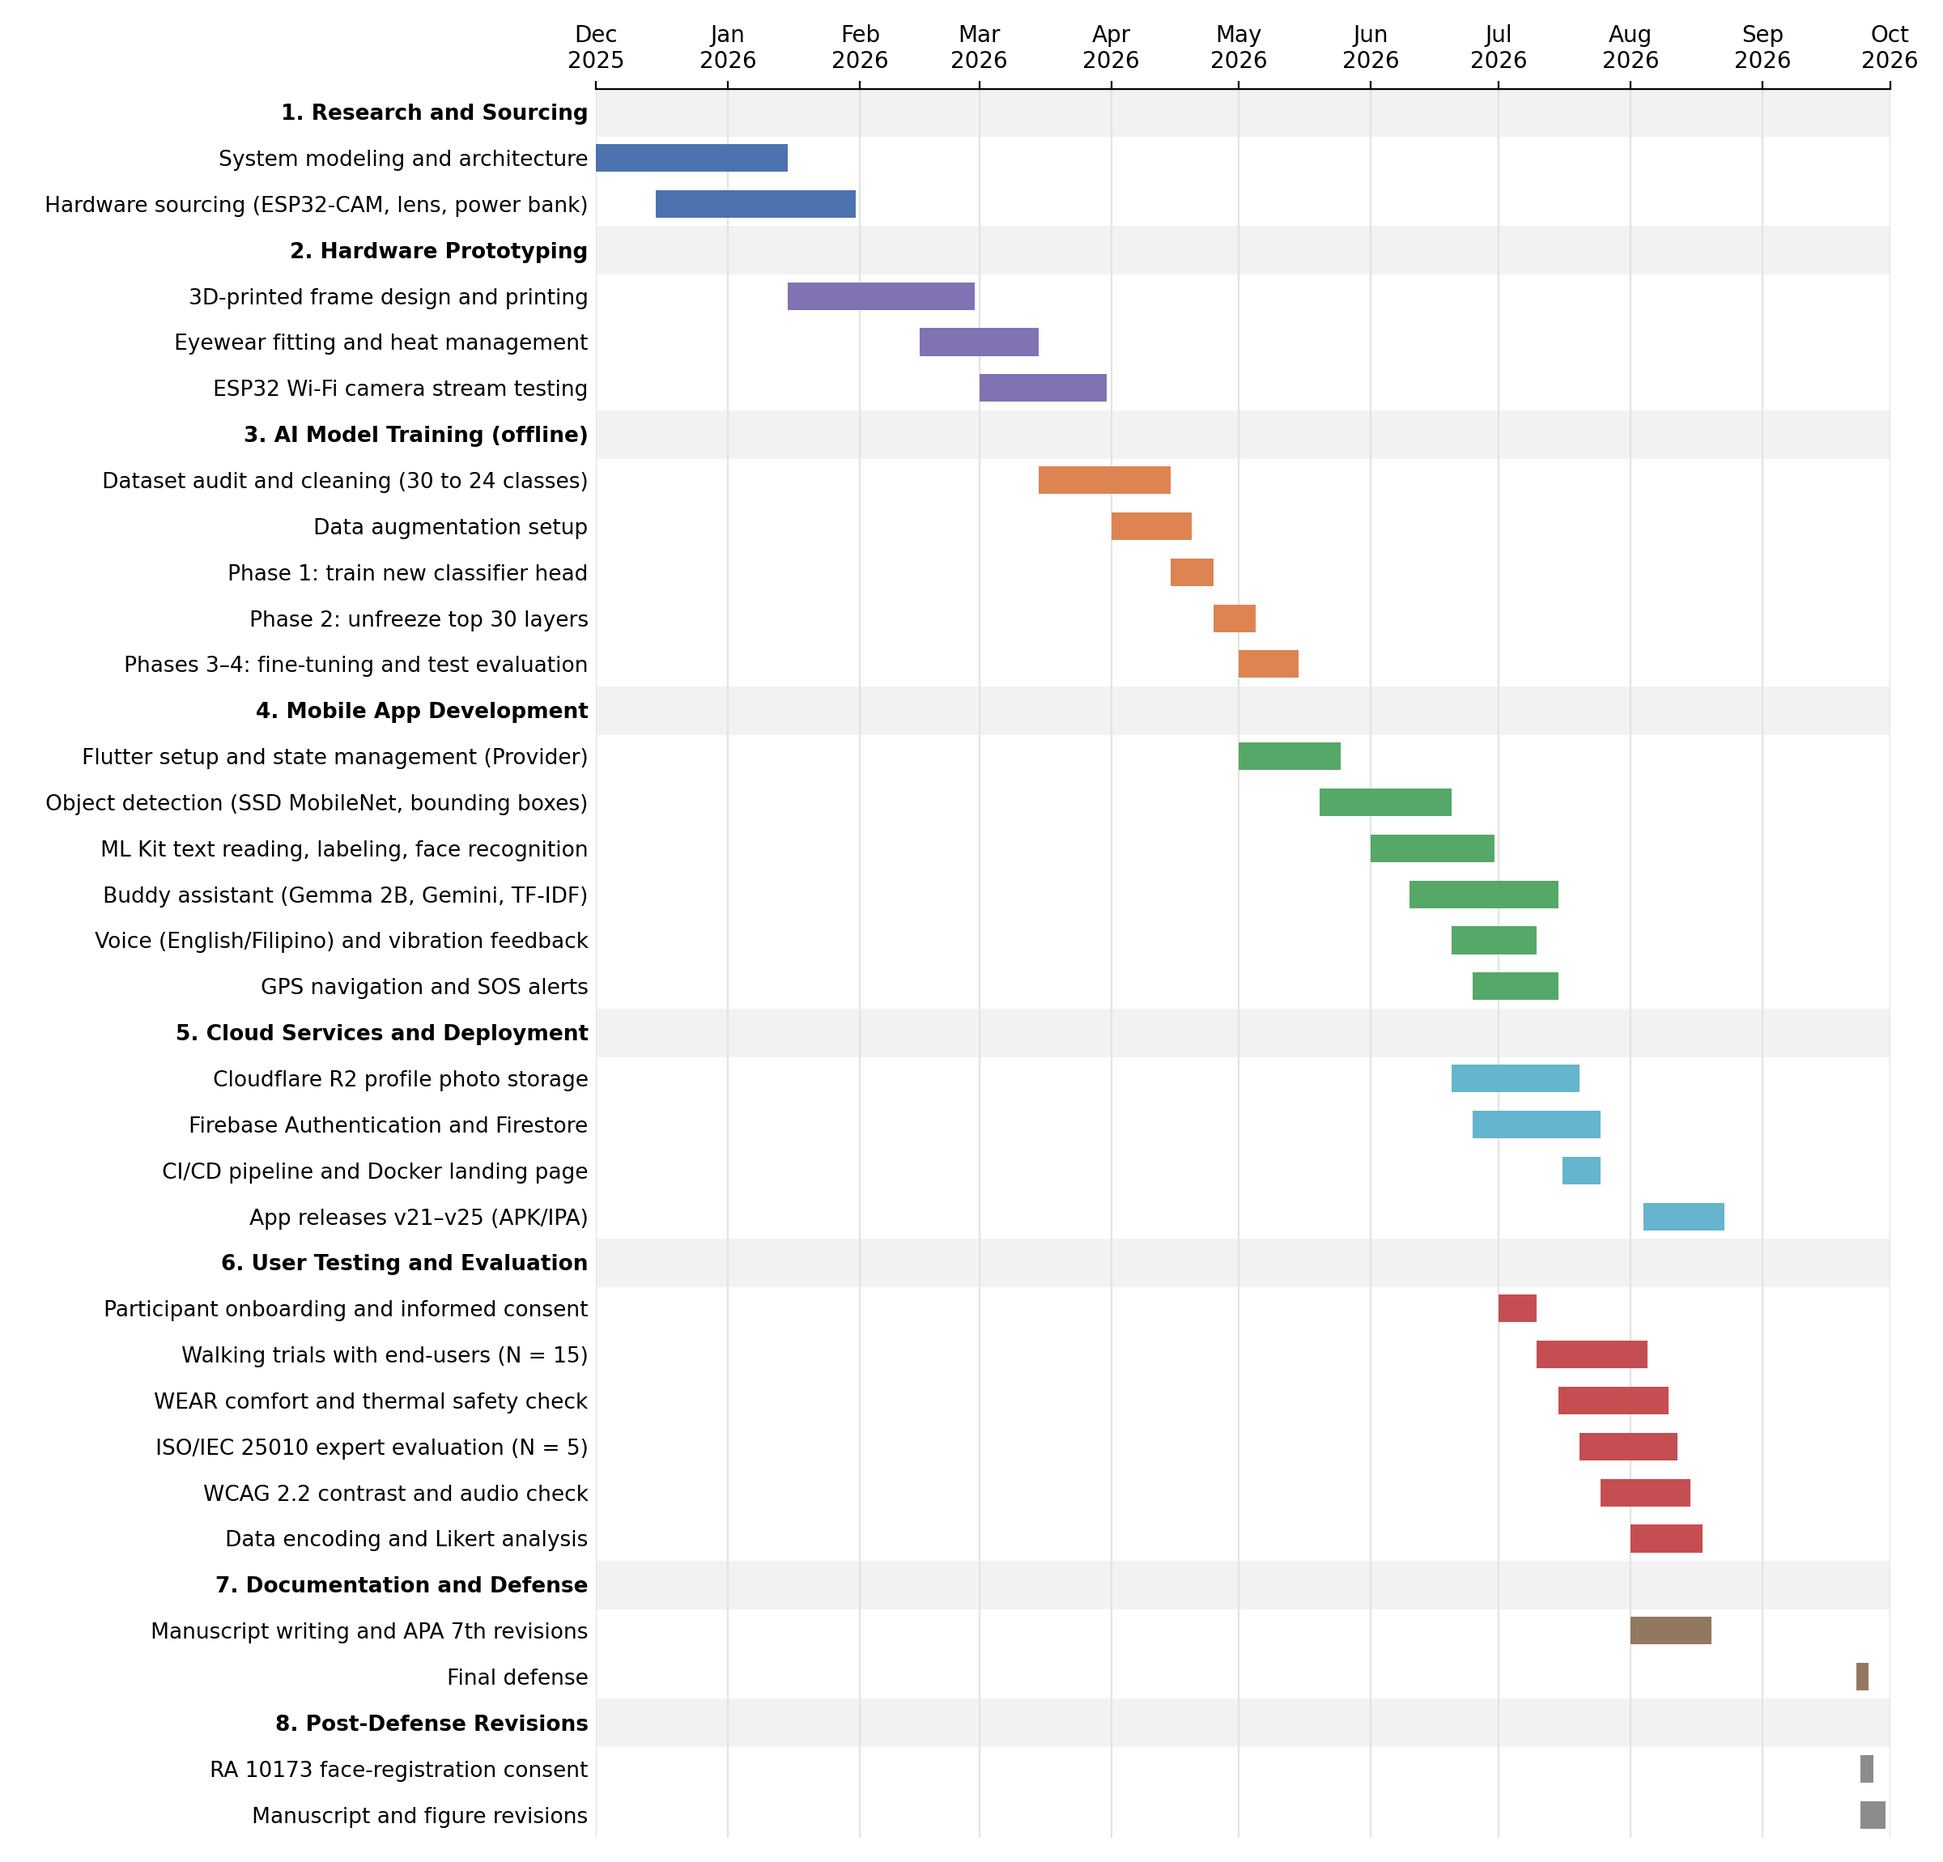
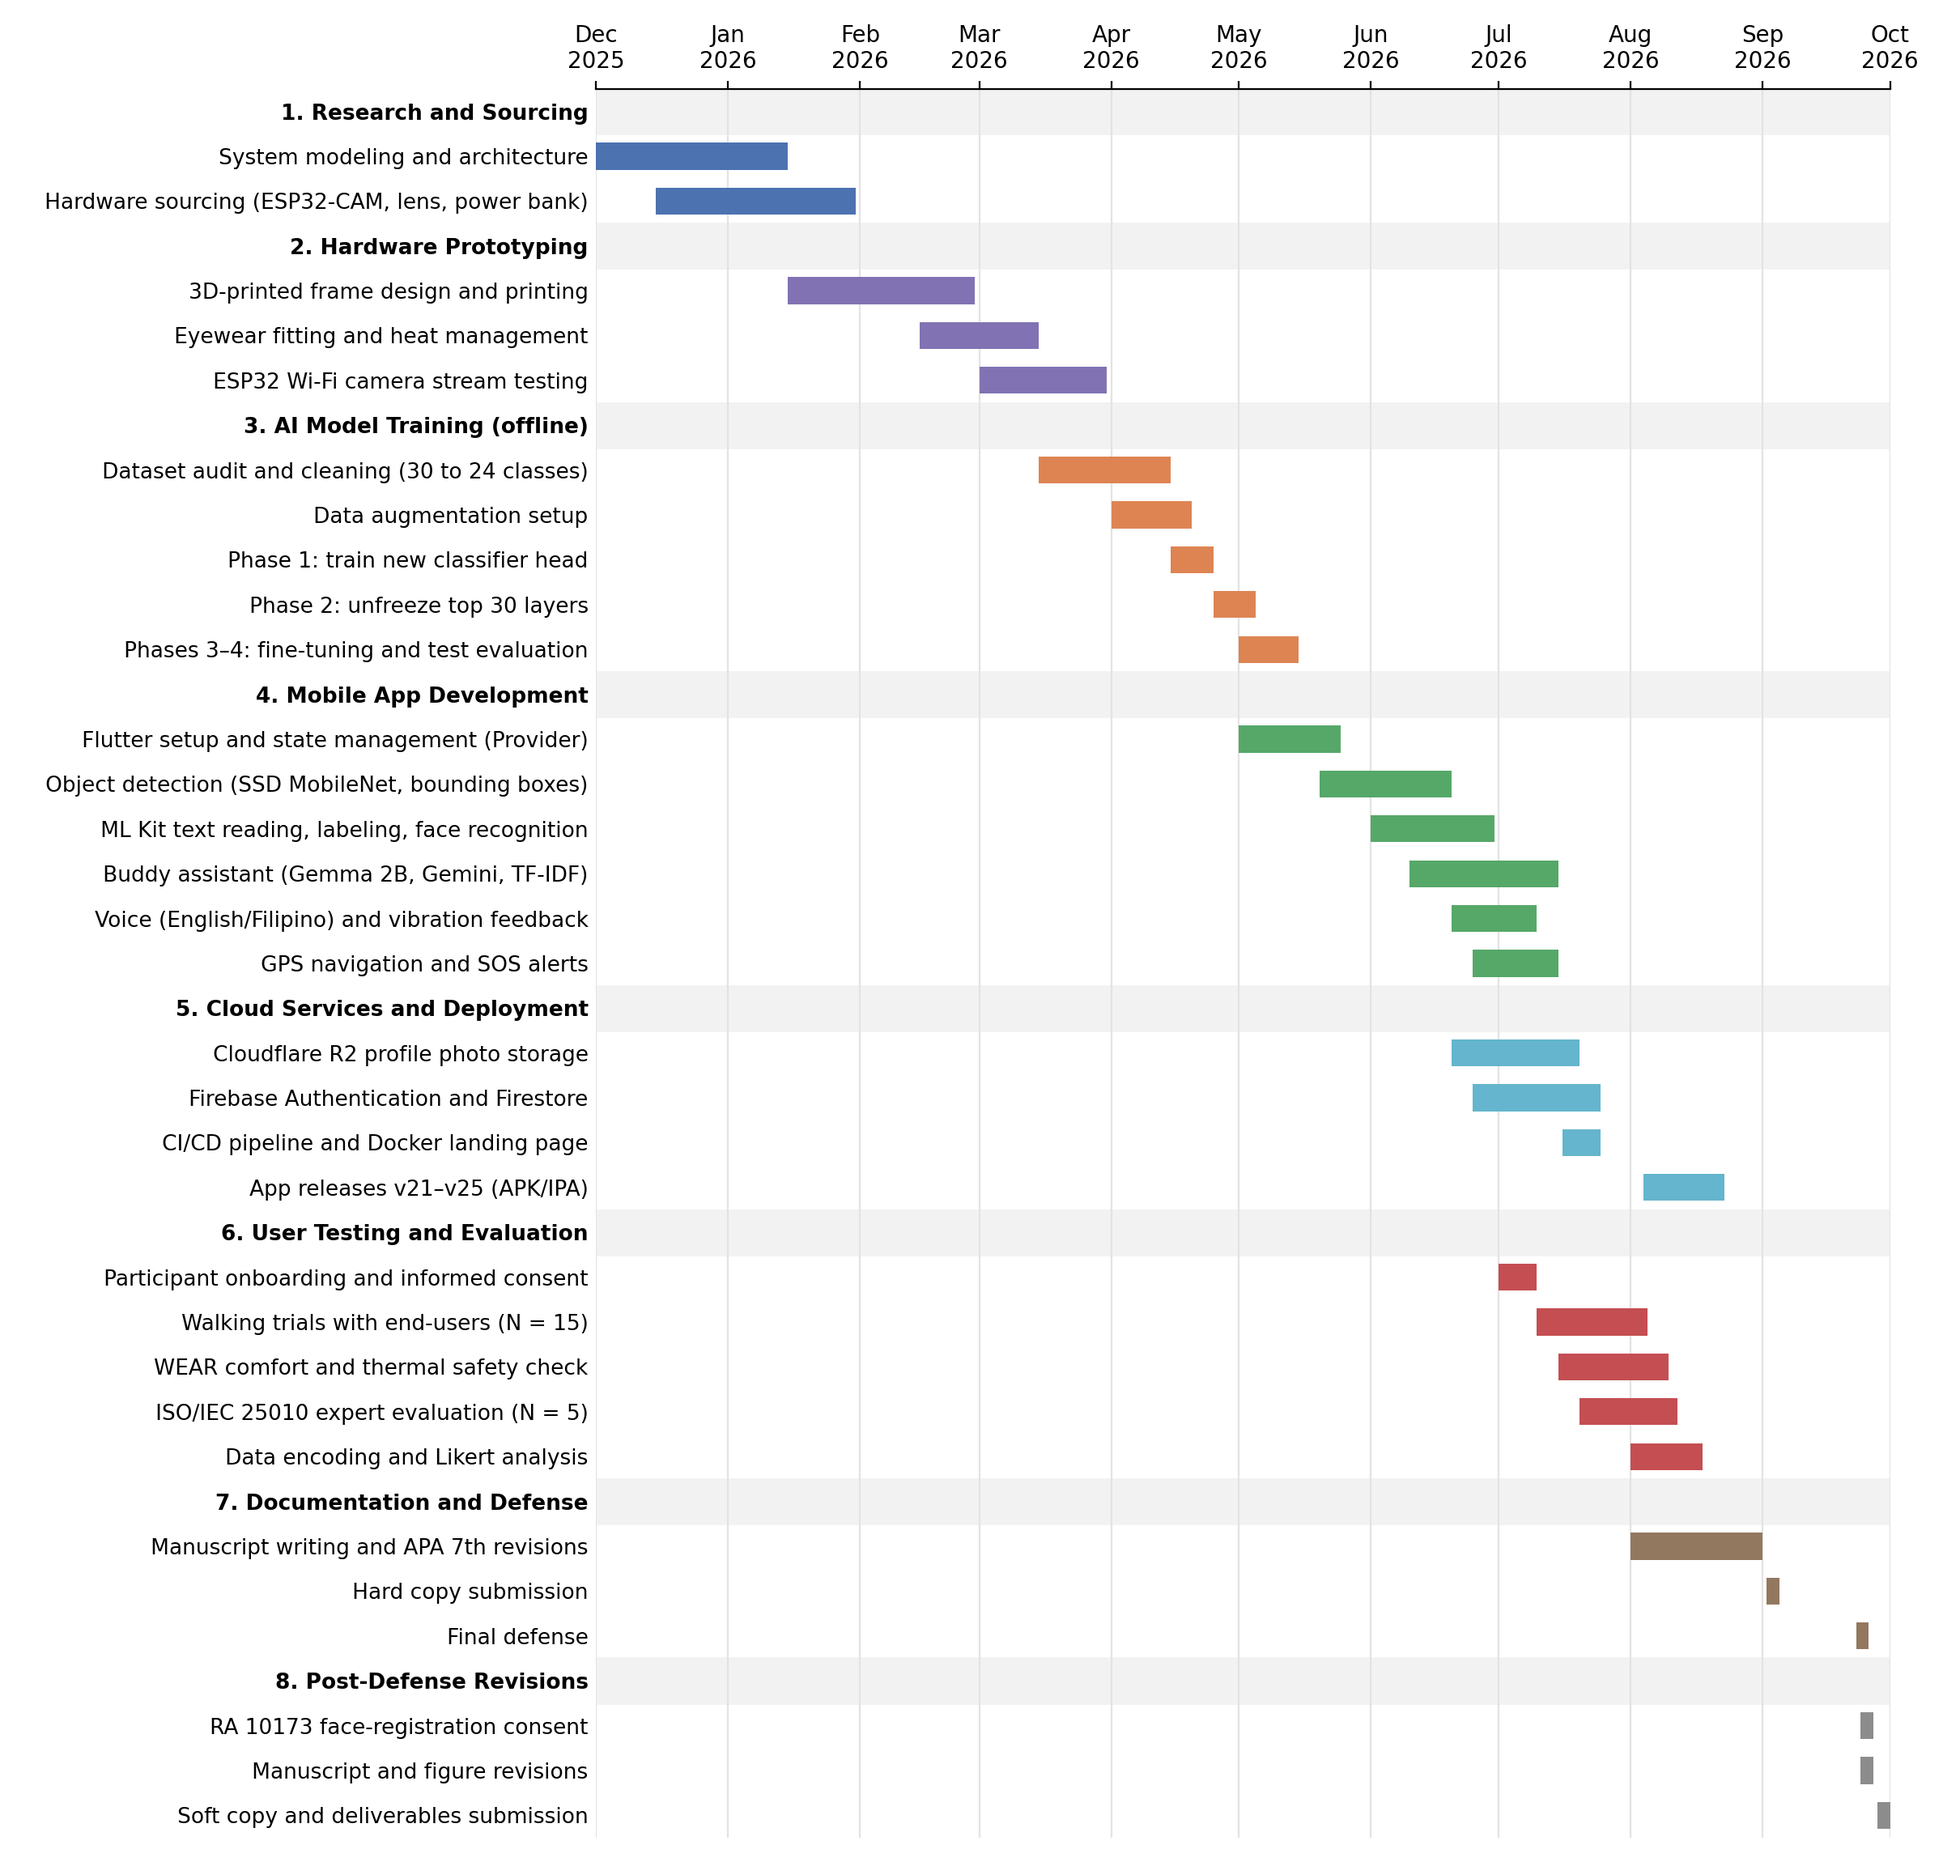
docs(figures): add hard copy and soft copy dates to Appendix H; drop WCAG bar

diff --git a/docs/figures/src/appendix_h_gantt.py b/docs/figures/src/appendix_h_gantt.py
@@ -18,7 +18,7 @@ PHASES = [
  ("5. Cloud Services and Deployment",  "2026-06-20", "2026-08-23"),
  ("6. User Testing and Evaluation",    "2026-07-01", "2026-08-18"),
  ("7. Documentation and Defense",      "2026-08-01", "2026-09-23"),
- ("8. Post-Defense Revisions",         "2026-09-24", "2026-09-30"),
+ ("8. Post-Defense Revisions",         "2026-09-24", "2026-09-29"),
 ]
 
 TASKS = [
@@ -46,12 +46,13 @@ TASKS = [
  (5, "Walking trials with end-users (N = 15)",           "2026-07-10", "2026-08-05"),
  (5, "WEAR comfort and thermal safety check",            "2026-07-15", "2026-08-10"),
  (5, "ISO/IEC 25010 expert evaluation (N = 5)",          "2026-07-20", "2026-08-12"),
- (5, "WCAG 2.2 contrast and audio check",                "2026-07-25", "2026-08-15"),
  (5, "Data encoding and Likert analysis",                "2026-08-01", "2026-08-18"),
- (6, "Manuscript writing and APA 7th revisions",         "2026-08-01", "2026-08-20"),
+ (6, "Manuscript writing and APA 7th revisions",         "2026-08-01", "2026-09-01"),
+ (6, "Hard copy submission",                             "2026-09-02", "2026-09-02"),
  (6, "Final defense",                                    "2026-09-23", "2026-09-23"),
  (7, "RA 10173 face-registration consent",               "2026-09-24", "2026-09-27"),
- (7, "Manuscript and figure revisions",                  "2026-09-24", "2026-09-30"),
+ (7, "Manuscript and figure revisions",                  "2026-09-24", "2026-09-27"),
+ (7, "Soft copy and deliverables submission",            "2026-09-28", "2026-09-29"),
 ]
 
 def axis(ax, start="2025-12-01", end="2026-10-01"):

diff --git a/docs/figures/11_appendix_h_gantt_charts.md b/docs/figures/11_appendix_h_gantt_charts.md
@@ -17,7 +17,7 @@ To redraw the charts, run `python3 docs/figures/src/appendix_h_gantt.py`.
 Figure H.1
 Simplified Gantt Chart (Phase-Level Overview)
 
-Note. Figure H.1 summarizes the eight phases of the EasyLens project from December 2025 to September 2026, from research and hardware sourcing through the post-defense revisions. The final defense was held on September 23, 2026.
+Note. Figure H.1 summarizes the eight phases of the EasyLens project from December 2025 to September 2026, from research and hardware sourcing through the post-defense revisions. The hard copy was submitted on September 2, the final defense was held on September 23, and the soft copy and deliverables were submitted on September 28–29, 2026.
 ```
 
 ---
@@ -33,5 +33,5 @@ Note. Figure H.1 summarizes the eight phases of the EasyLens project from Decemb
 Figure H.2
 Detailed Gantt Chart (Task and Deliverable Breakdown)
 
-Note. Figure H.2 breaks the eight phases into thirty tasks. The custom MobileNetV2 classifier was trained offline in Google Colab and was not converted to TFLite or added to the app; live detection in the app uses Google ML Kit and a COCO-pretrained SSD MobileNet model.
+Note. Figure H.2 breaks the eight phases into 31 tasks. The custom MobileNetV2 classifier was trained offline in Google Colab and was not converted to TFLite or added to the app; live detection in the app uses Google ML Kit and a COCO-pretrained SSD MobileNet model.
 ```
